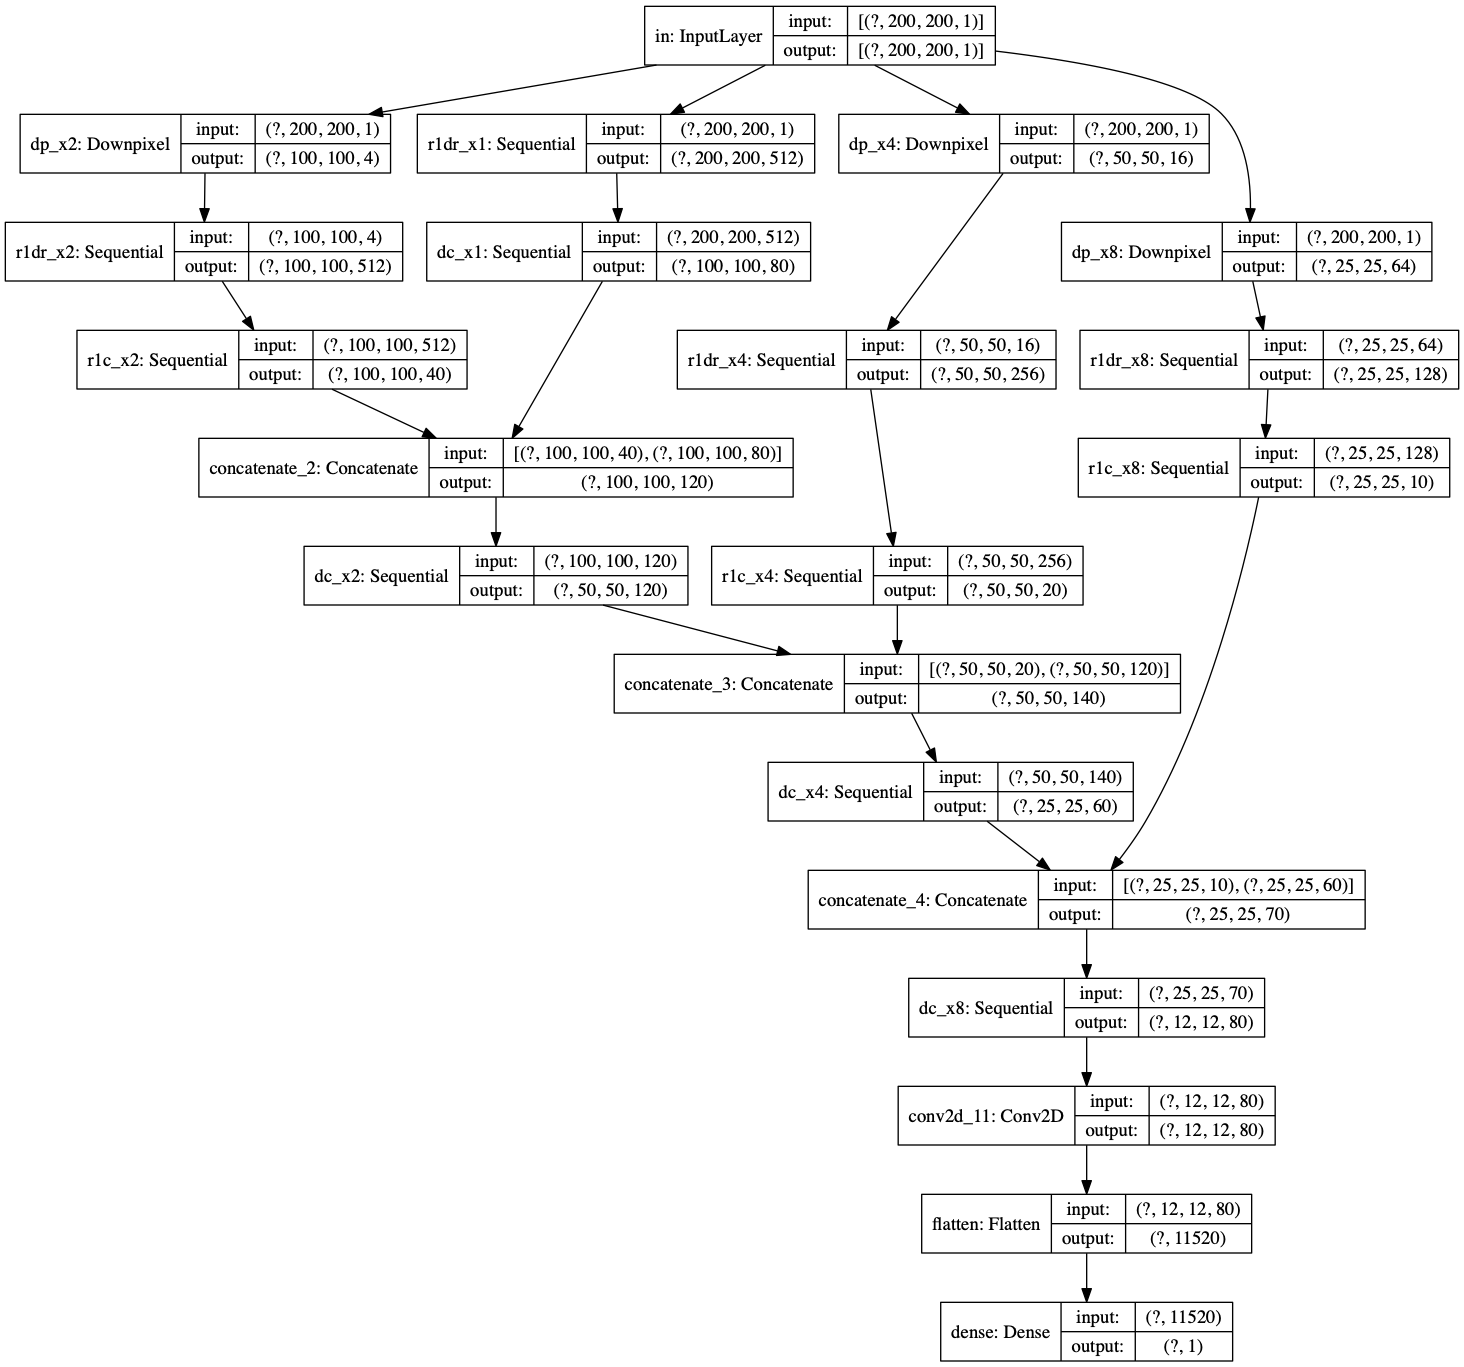
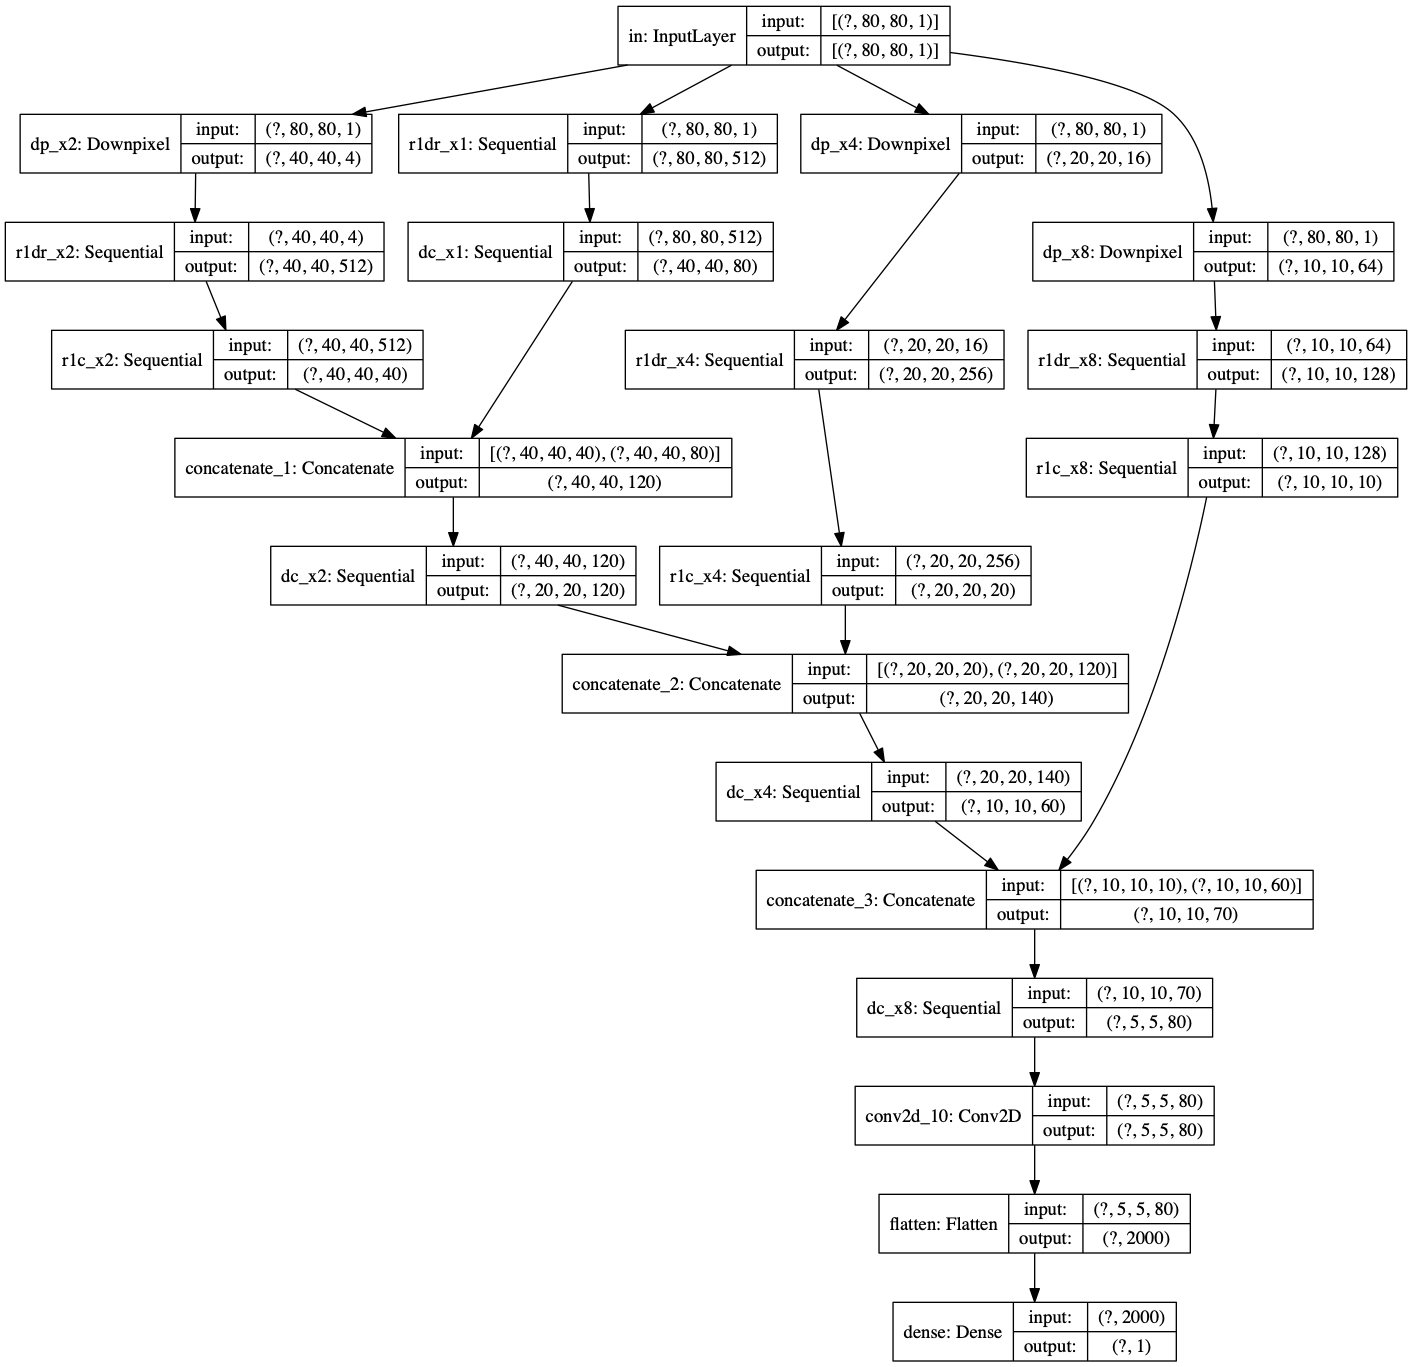
update gen

diff --git a/model.py b/model.py
@@ -243,10 +243,10 @@ def make_generator_model(len_high_size=128, scale=4):
         pool_size=(2, 2), strides=2, padding='valid', name='p_x2')(inp)
     low_x4 = tf.keras.layers.AveragePooling2D(
         pool_size=(2, 2), strides=2, padding='valid', name='p_x4')(low_x2)
-    low_x8 = tf.keras.layers.AveragePooling2D(
-        pool_size=(2, 2), strides=2, padding='valid', name='p_x8')(low_x4)
+    '''low_x8 = tf.keras.layers.AveragePooling2D(
+        pool_size=(2, 2), strides=2, padding='valid', name='p_x8')(low_x4)'''
 
-    dsd_x8 = block_downsample_decomposition(len_low_size=len_low_size_x8, input_len_size=len_high_size,
+    '''dsd_x8 = block_downsample_decomposition(len_low_size=len_low_size_x8, input_len_size=len_high_size,
                                             input_channels=1, downsample_ratio=8, filters_decompose=128, name='dsd_x8')
     rech_x8 = dsd_x8(inp)
     r1c = block_rank1channels_convolution(
@@ -258,7 +258,7 @@ def make_generator_model(len_high_size=128, scale=4):
 
     usc_x8 = block_upsample_convolution(
         filters=16, input_len_size=len_low_size_x8, input_channels=32, upsample_ratio=2, name='usc_x8')
-    sym_x8 = usc_x8(sym_x8)
+    sym_x8 = usc_x8(sym_x8)'''
 
     dsd_x4 = block_downsample_decomposition(len_low_size=len_low_size_x4, input_len_size=len_high_size,
                                             input_channels=1, downsample_ratio=4, filters_decompose=256, name='dsd_x4')
@@ -270,17 +270,18 @@ def make_generator_model(len_high_size=128, scale=4):
         dims=len_low_size_x4, input_len_size=len_low_size_x4, input_channels=256, name='r1e_x4')
     out_low_x4 = r1e(rech_x4)
 
-    concat = tf.keras.layers.concatenate([sym_x8, sym_x4], axis=-1)
+    '''concat = tf.keras.layers.concatenate([sym_x8, sym_x4], axis=-1)'''
 
     usc_x4 = block_upsample_convolution(
-        filters=64, input_len_size=len_low_size_x4, input_channels=128+16, upsample_ratio=2, name='usc_x4')
-    sym_x4 = usc_x4(concat)
+        filters=64, input_len_size=len_low_size_x4, input_channels=128, upsample_ratio=2, name='usc_x4')
+    #sym_x4 = usc_x4(concat)
+    sym_x4 = usc_x4(sym_x4)
 
     dsd_x2 = block_downsample_decomposition(len_low_size=len_low_size_x2, input_len_size=len_high_size,
                                             input_channels=1, downsample_ratio=2, filters_decompose=512, name='dsd_x2')
     rech_x2 = dsd_x2(inp)
     r1c_x2 = block_rank1channels_convolution(
-        filters=256, input_len_size=len_low_size_x2, input_channels=512, name='r1c_x2')
+        filters=128, input_len_size=len_low_size_x2, input_channels=512, name='r1c_x2')
     sym_x2 = r1c_x2(rech_x2)
     r1e_x2 = block_rank1_estimation(
         dims=len_low_size_x2, input_len_size=len_low_size_x2, input_channels=512, name='r1e_x2')
@@ -289,7 +290,7 @@ def make_generator_model(len_high_size=128, scale=4):
     concat = tf.keras.layers.concatenate([sym_x4, sym_x2], axis=-1)
 
     usc_x2 = block_upsample_convolution(
-        filters=40, input_len_size=len_low_size_x2, input_channels=256+64, upsample_ratio=2, name='usc_x2')
+        filters=128, input_len_size=len_low_size_x2, input_channels=128+64, upsample_ratio=2, name='usc_x2')
     sym = usc_x2(concat)
 
     Sumh = tf.keras.layers.Conv2D(filters=1, kernel_size=(1, 1),
@@ -299,8 +300,10 @@ def make_generator_model(len_high_size=128, scale=4):
                                   activation='relu', use_bias=False, name='sum_high')(sym)
     high_out = Normal(int(len_high_size), name='out_high')(Sumh)
 
+    '''model = tf.keras.models.Model(
+        inputs=[inp], outputs=[out_low_x2, out_low_x4, out_low_x8, high_out, low_x2, low_x4, low_x8])'''
     model = tf.keras.models.Model(
-        inputs=[inp], outputs=[out_low_x2, out_low_x4, out_low_x8, high_out, low_x2, low_x4, low_x8])
+        inputs=[inp], outputs=[out_low_x2, out_low_x4, high_out, low_x2, low_x4])
     return model
 
 
@@ -413,7 +416,7 @@ def generator_bce_loss(d_pred):
 
 
 def generator_ssim_loss(y_pred, y_true):  # , m_filter):
-    return (1 - tf.image.ssim(y_pred, y_true, max_val=1.0, filter_size=4))/2.0
+    return (1 - tf.image.ssim(y_pred, y_true, max_val=1.0, filter_size=11))/2.0
 
 
 def generator_mse_loss(y_pred, y_true):  # , m_filter):
@@ -445,13 +448,13 @@ def _train_step_generator(Gen, Dis, imgl, imgr, loss_filter, loss_weights, opts,
         fake_hic_l_x4 = tf.multiply(fake_hic_l_x4, mfilter_low)
         imgl_x4_filter = tf.multiply(imgl_x4, mfilter_low)
 
-        fake_hic_l_x8 = fake_hic[2]
+        '''fake_hic_l_x8 = fake_hic[2]
         imgl_x8 = fake_hic[6]
         mfilter_low = tf.expand_dims(loss_filter[2], axis=0)
         mfilter_low = tf.expand_dims(mfilter_low, axis=-1)
         mfilter_low = tf.cast(mfilter_low, tf.float32)
         fake_hic_l_x8 = tf.multiply(fake_hic_l_x8, mfilter_low)
-        imgl_x8_filter = tf.multiply(imgl_x8, mfilter_low)
+        imgl_x8_filter = tf.multiply(imgl_x8, mfilter_low)'''
 
         gen_loss_low_ssim_x2 = generator_ssim_loss(
             fake_hic_l_x2, imgl_x2_filter)
@@ -461,17 +464,20 @@ def _train_step_generator(Gen, Dis, imgl, imgr, loss_filter, loss_weights, opts,
             fake_hic_l_x4, imgl_x4_filter)
         gen_loss_low_mse_x4 = generator_mse_loss(fake_hic_l_x4, imgl_x4_filter)
 
-        gen_loss_low_ssim_x8 = generator_ssim_loss(
+        '''gen_loss_low_ssim_x8 = generator_ssim_loss(
             fake_hic_l_x8, imgl_x8_filter)
-        gen_loss_low_mse_x8 = generator_mse_loss(fake_hic_l_x8, imgl_x8_filter)
+        gen_loss_low_mse_x8 = generator_mse_loss(fake_hic_l_x8, imgl_x8_filter)'''
 
-        gen_loss_low_ssim = (gen_loss_low_ssim_x8*1.0 +
+        '''gen_loss_low_ssim = (gen_loss_low_ssim_x8*1.0 +
                              gen_loss_low_ssim_x4*4.0 + gen_loss_low_ssim_x2*16.0)/21.0
         gen_loss_low_mse = (gen_loss_low_mse_x8*1.0 +
-                            gen_loss_low_mse_x4*4.0 + gen_loss_low_mse_x2*16.0)/21.0
+                            gen_loss_low_mse_x4*4.0 + gen_loss_low_mse_x2*16.0)/21.0'''
+        gen_loss_low_ssim = (gen_loss_low_ssim_x4*4.0 + gen_loss_low_ssim_x2*16.0)/20.0
+        gen_loss_low_mse = (gen_loss_low_mse_x4*4.0 + gen_loss_low_mse_x2*16.0)/20.0
         gen_loss_low = gen_loss_low_ssim + gen_loss_low_mse
 
-        fake_hic_h = fake_hic[3]
+        '''fake_hic_h = fake_hic[3]'''
+        fake_hic_h = fake_hic[2]
         mfilter_high = tf.expand_dims(loss_filter[3], axis=0)
         mfilter_high = tf.expand_dims(mfilter_high, axis=-1)
         mfilter_high = tf.cast(mfilter_high, tf.float32)
@@ -493,8 +499,8 @@ def _train_step_generator(Gen, Dis, imgl, imgr, loss_filter, loss_weights, opts,
     gen_low_v += Gen.get_layer('r1e_x2').trainable_variables
     gen_low_v += Gen.get_layer('dsd_x4').trainable_variables
     gen_low_v += Gen.get_layer('r1e_x4').trainable_variables
-    gen_low_v += Gen.get_layer('dsd_x8').trainable_variables
-    gen_low_v += Gen.get_layer('r1e_x8').trainable_variables
+    '''gen_low_v += Gen.get_layer('dsd_x8').trainable_variables
+    gen_low_v += Gen.get_layer('r1e_x8').trainable_variables'''
     gradients_of_generator_low = x.gradient(gen_loss_low, gen_low_v)
     opts[0].apply_gradients(zip(gradients_of_generator_low, gen_low_v))
     train_logs[0](gen_loss_low_ssim)
@@ -505,8 +511,8 @@ def _train_step_generator(Gen, Dis, imgl, imgr, loss_filter, loss_weights, opts,
     gen_high_v += Gen.get_layer('usc_x2').trainable_variables
     gen_high_v += Gen.get_layer('r1c_x4').trainable_variables
     gen_high_v += Gen.get_layer('usc_x4').trainable_variables
-    gen_high_v += Gen.get_layer('r1c_x8').trainable_variables
-    gen_high_v += Gen.get_layer('usc_x8').trainable_variables
+    '''gen_high_v += Gen.get_layer('r1c_x8').trainable_variables
+    gen_high_v += Gen.get_layer('usc_x8').trainable_variables'''
     gen_high_v += Gen.get_layer('sum_high').trainable_variables
     gen_high_v += Gen.get_layer('out_high').trainable_variables
     gradients_of_generator_high = gen_tape_high.gradient(
@@ -635,10 +641,10 @@ def train(gen, dis, dataset, epochs, len_high_size, scale, test_dataset=None):
         start = time.time()
         for i, (low_m, high_m) in enumerate(dataset):
             # if(generator_log_ssim_high.result().numpy() >= 0.016 or generator_log_mse_high.result().numpy() >= 0.016):
-            if(epoch <= int(epochs/3.0)):
+            if(epoch <= int(epochs/5.0)):
                 loss_weights = [0.0, 10.0, 0.0]
             else:
-                loss_weights = [1.0, 10.0, 0.0]
+                loss_weights = [0.3, 10.0, 0.0]
 
             if(epoch % 40 <= 20):
                 train_step_generator(gen, dis,
@@ -780,7 +786,7 @@ def plot_to_image(figure):
 
 
 if __name__ == '__main__':
-    len_size=200
+    len_size=80
     scale=4
     Gen = make_generator_model(len_high_size=len_size, scale=scale)
     Dis = make_discriminator_model(len_high_size=len_size, scale=scale)

diff --git a/prepare_data.py b/prepare_data.py
@@ -71,7 +71,7 @@ def save_samples(configure=None, chromosome=None):
     if genomic_distance is not None:
         max_boundary = np.ceil(genomic_distance/(resolution*len_size/2.0))
 
-    hic_hr, index_1d_2d, index_2d_1d = operations.divide_pieces_hic(
+    hic_hr, _, _ = operations.divide_pieces_hic(
         Mh, block_size=len_size, max_distance=max_boundary, save_file=False)
     hic_hr = np.asarray(hic_hr)
     print('shape hic_hr: ', hic_hr.shape)
@@ -79,6 +79,8 @@ def save_samples(configure=None, chromosome=None):
         Ml, block_size=len_size, max_distance=max_boundary, save_file=False)
     hic_lr = np.asarray(hic_lr)
     print('shape hic_lr: ', hic_lr.shape)
+
+
     directory_hr = os.path.join(
         data_path, input_path, input_file, 'HR', chromosome)
     directory_lr = os.path.join(
